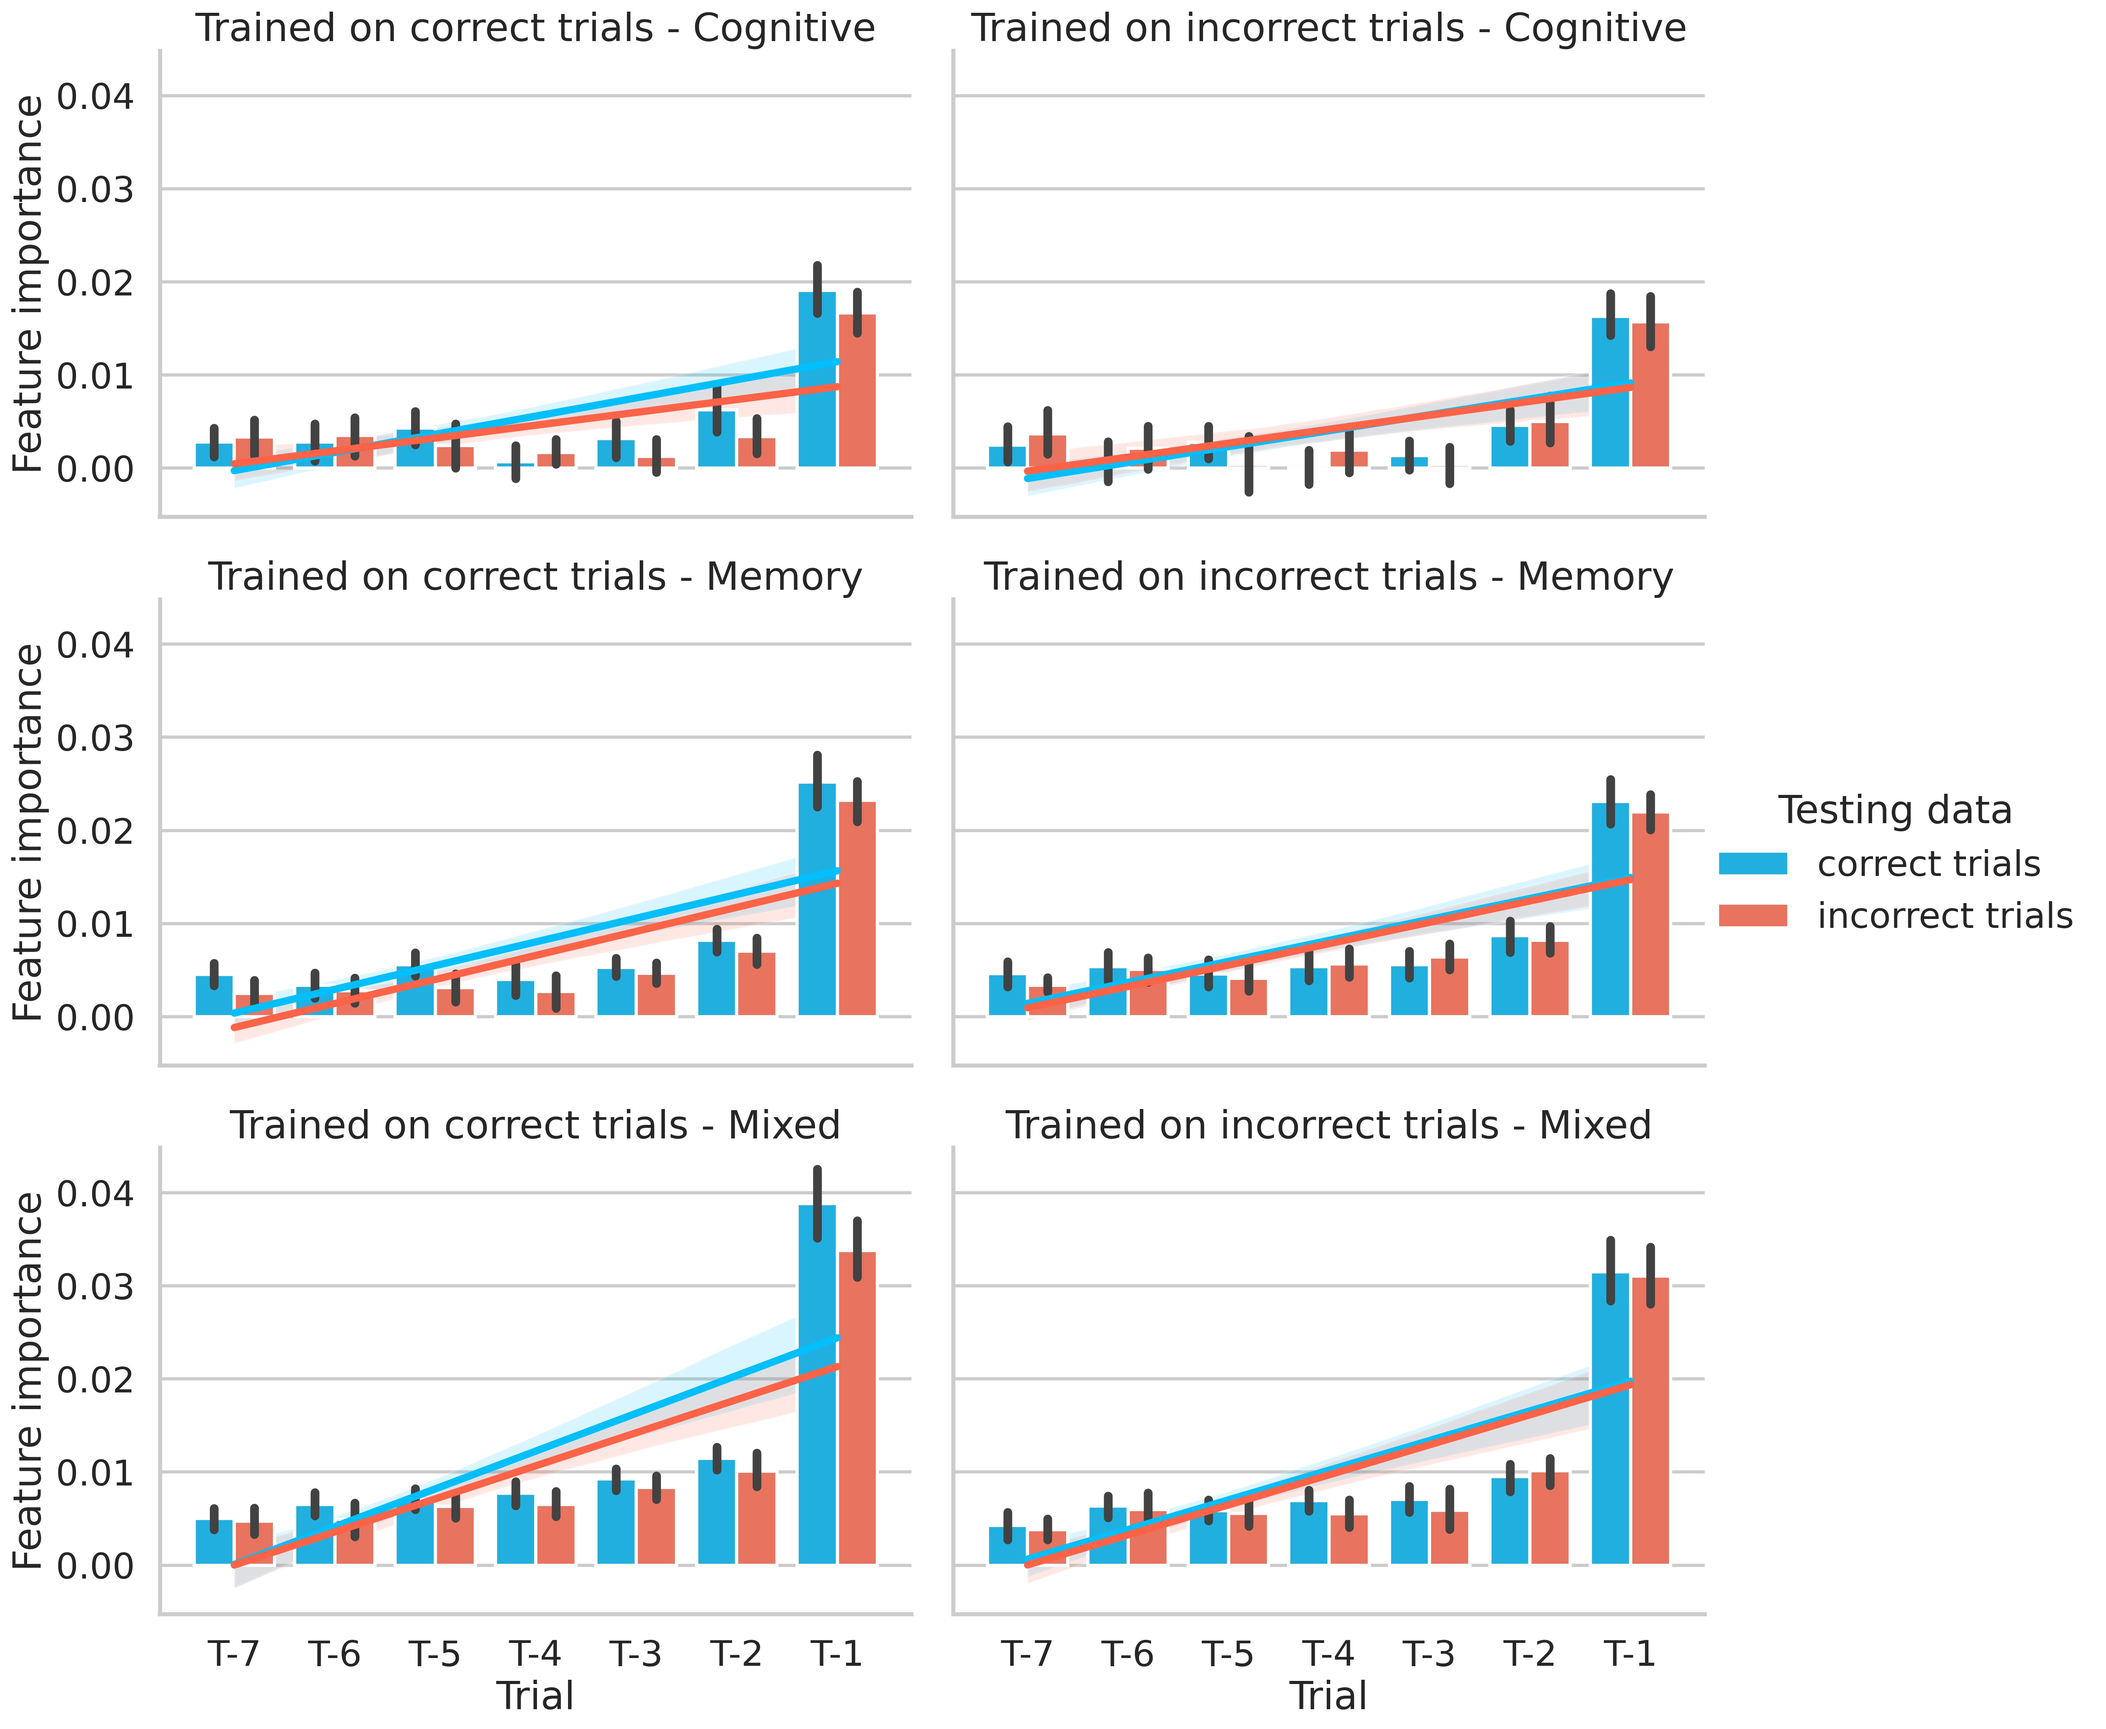
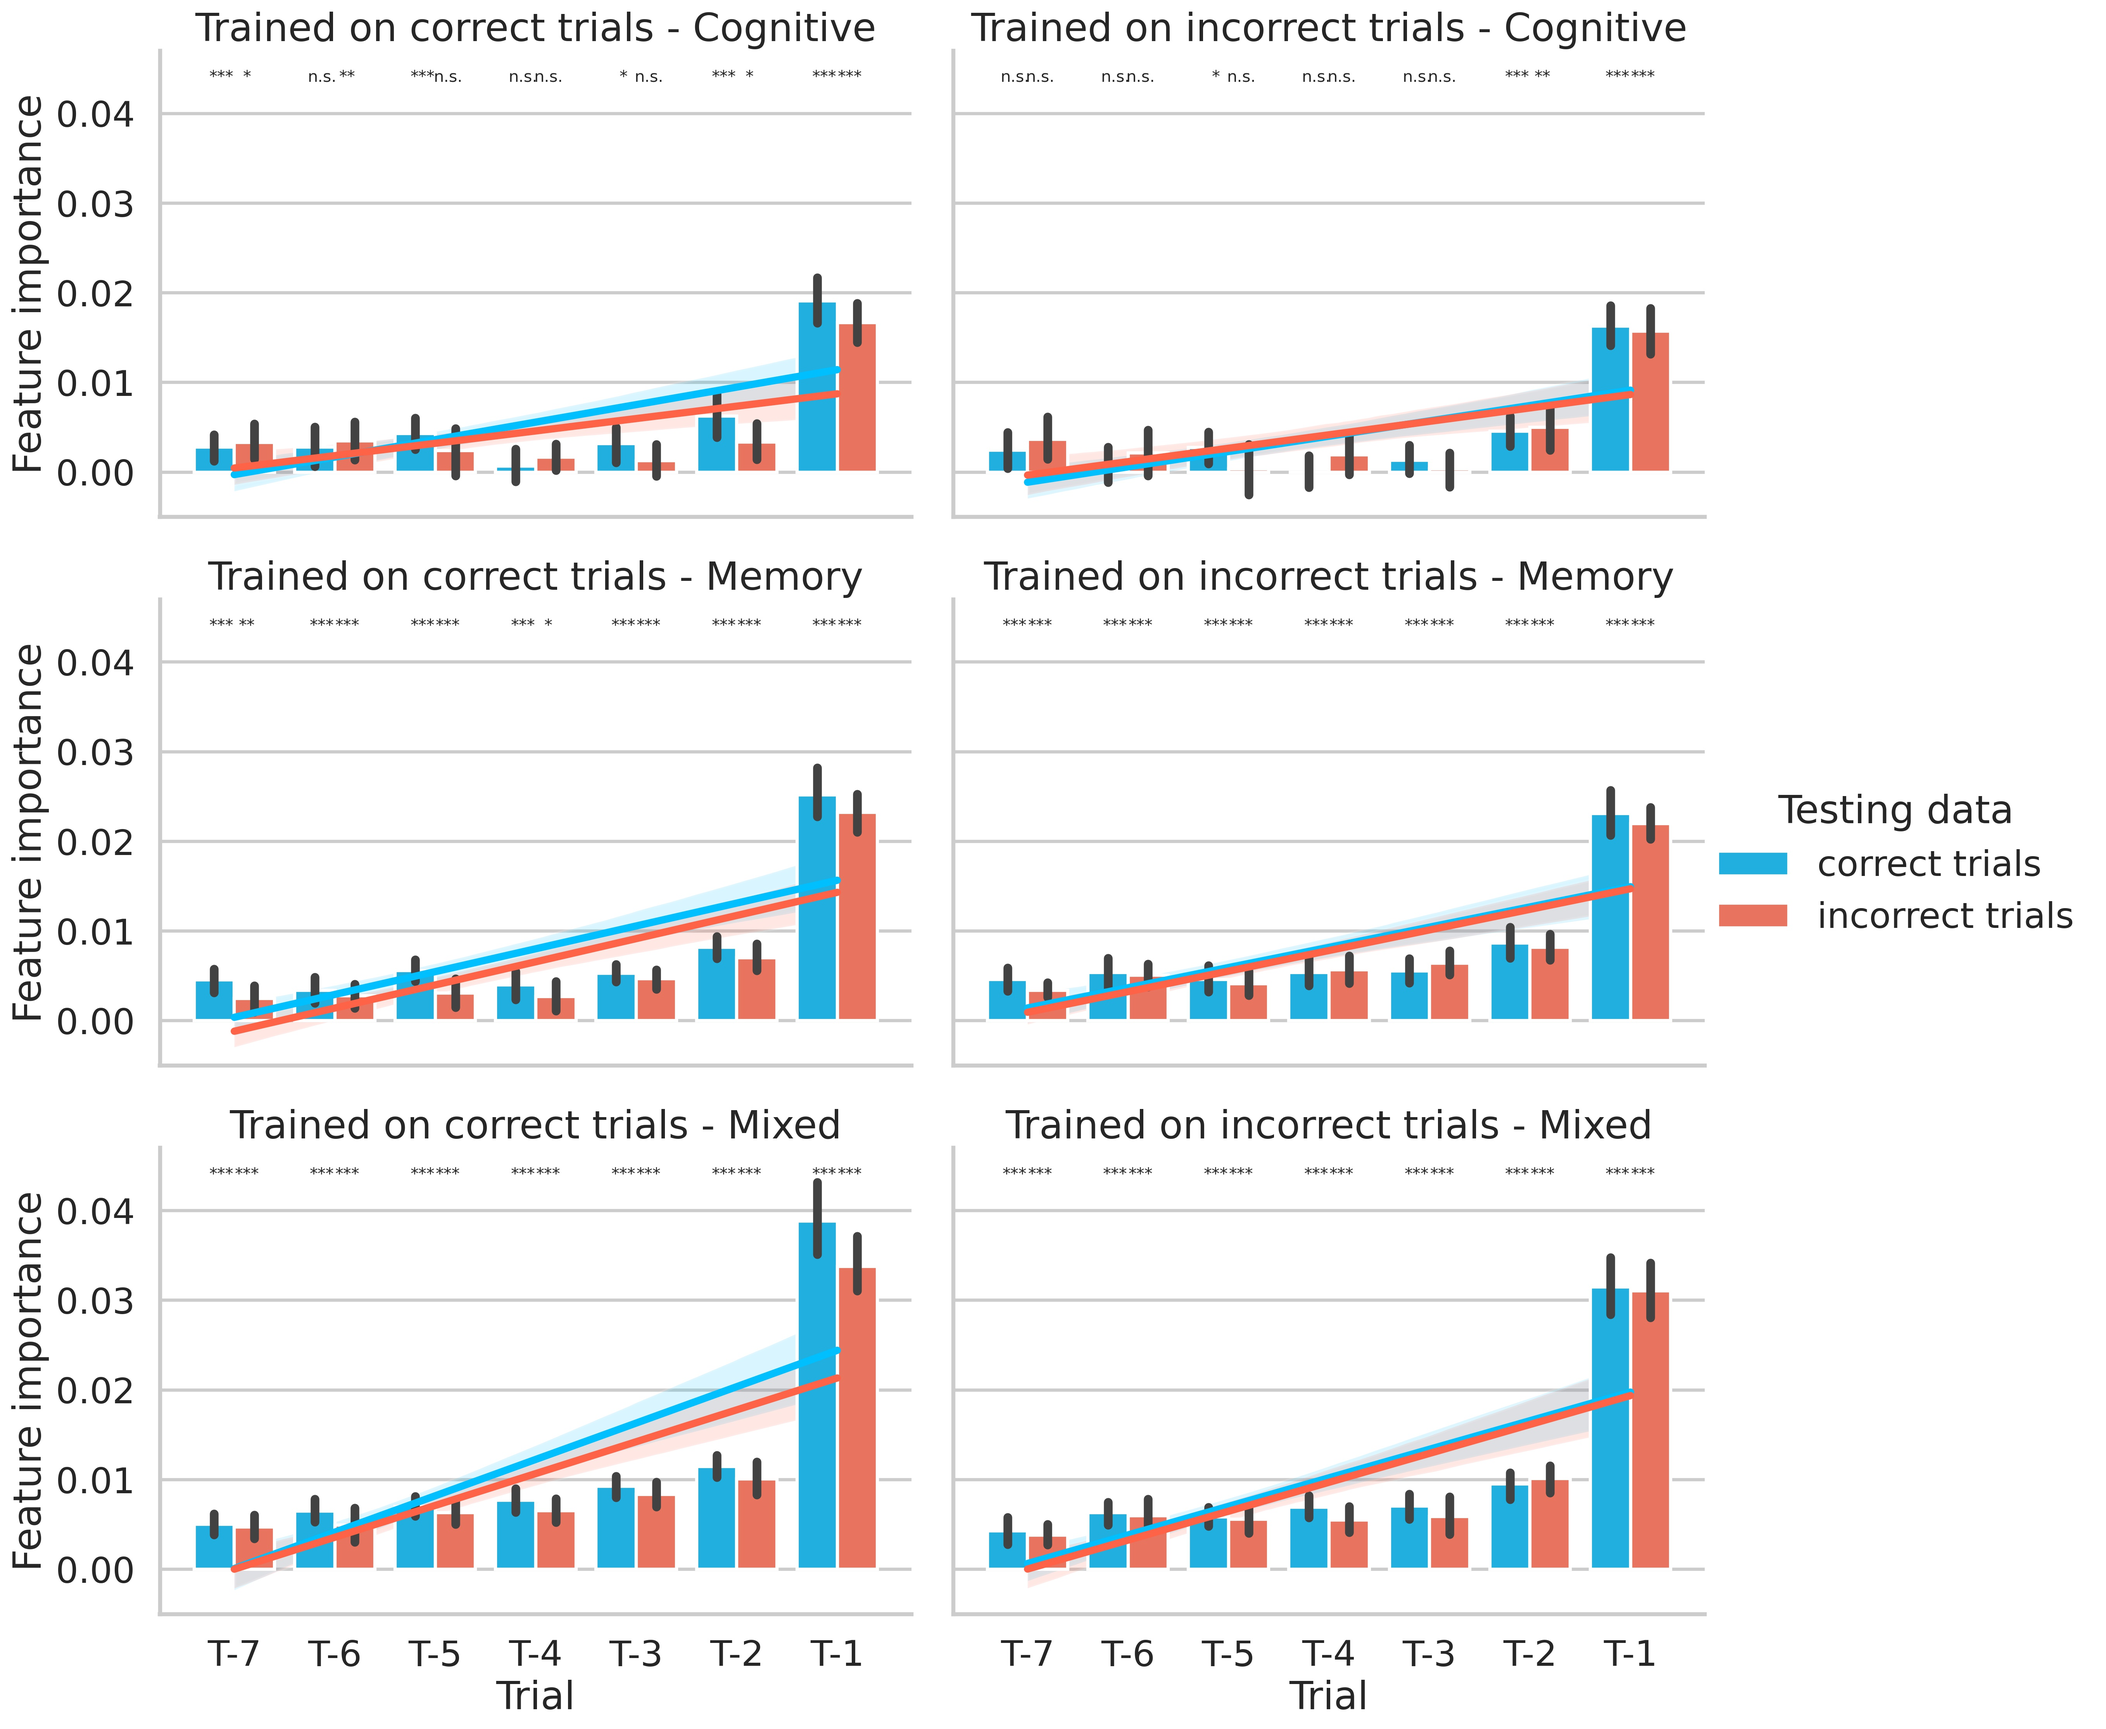
update

diff --git a/scripts/9.1.2.feature_importance_CD_confidence.py b/scripts/9.1.2.feature_importance_CD_confidence.py
@@ -145,6 +145,37 @@ slopes = pd.DataFrame(slopes)
 results.to_csv(os.path.join(stats_dir,'feature_importance.csv'),index = False)
 slopes.to_csv(os.path.join(stats_dir,'feature_importance_slopes.csv'),index = False)
 
+groupby = ['accuracy_train', 'accuracy_test','Time','source']
+permutations = {name:[] for name in groupby}
+permutations['ps_mean'] = []
+permutations['diff_mean'] = []
+for _factors,df_sub in df_plot.groupby(groupby):
+    x = df_sub['feature importance'].values
+    ps = utils.resample_ttest(x,
+                              baseline = 0,
+                              n_ps = 10,
+                              n_permutation = int(1e5),
+                              one_tail = True,
+                              n_jobs = -1,
+                              verbose = 1,)
+    for name,_name in zip(groupby,_factors):
+        permutations[name].append(_name)
+    permutations['ps_mean'].append(np.mean(ps))
+    permutations['diff_mean'].append(np.mean(x))
+permutations = pd.DataFrame(permutations)
+permutations = permutations.sort_values('ps_mean')
+temp = []
+for _,df_sub in permutations.groupby('source'):
+    df_sub = df_sub.sort_values('ps_mean')
+    ps = df_sub['ps_mean'].values
+    converter = utils.MCPConverter(pvals = ps)
+    d = converter.adjust_many()
+    df_sub['ps_corrected'] = d['bonferroni'].values
+    temp.append(df_sub)
+permutations = pd.concat(temp)
+permutations['stars'] = permutations['ps_corrected'].apply(utils.stars)
+permutations['Time'] = permutations['Time'].apply(lambda x:x.split(' ')[-1])
+
 g = sns.catplot(x = 'x',
                 y = 'feature importance',
                 row = 'source',
@@ -153,8 +184,6 @@ g = sns.catplot(x = 'x',
                 aspect = 1.5,
                 **xargs
                 )
-
-
 for ax,((target_data,acc_train),df_sub) in zip(g.axes.flatten(),df_plot.groupby(['source','accuracy_train'])):
     print(ax.title.get_text(),target_data,acc_train)
     for acc_test,color in zip(xargs['hue_order'],xargs['palette']):
@@ -166,10 +195,34 @@ for ax,((target_data,acc_train),df_sub) in zip(g.axes.flatten(),df_plot.groupby(
                          data = df_sub_sub,
                          ax = ax,
                          )
-        
+# add significance level
+for ax,((target_data,acc_train),df_sub) in zip(g.axes.flatten(),permutations.groupby(['source','accuracy_train'])):
+    print(ax.title.get_text(),target_data,acc_train)
+    # df_sub = permutations[permutations['accuracy_train'] == acc_train]
+    df_sub = df_sub.sort_values(['accuracy_train','accuracy_test'])
+    xtick_order = [plt.Text(0, 0, 'T-7'),
+                   plt.Text(1, 0, 'T-6'),
+                   plt.Text(2, 0, 'T-5'),
+                   plt.Text(3, 0, 'T-4'),
+                   plt.Text(4, 0, 'T-3'), 
+                   plt.Text(5, 0, 'T-2'),
+                   plt.Text(6, 0, 'T-1')]
+    
+    for ii,text_obj in enumerate(xtick_order):
+        position        = text_obj.get_position()
+        xtick_label     = text_obj.get_text()
+        df_sub_stats    = df_sub[df_sub['Time'] == xtick_label].sort_values(['accuracy_test'])
+        for (jj,temp_row),adjustment in zip(df_sub_stats.iterrows(),[-0.1275,0.125]):
+            print(temp_row['stars'])
+            ax.annotate(temp_row['stars'],
+                        xy          = (ii + adjustment,.044),
+                        ha          = 'center',va = 'center',
+                        fontsize    = 10)
 (g.set_titles('Trained on {col_name} - {row_name}')
- .set_axis_labels('Trial','Feature importance'))
+ .set_axis_labels('Trial','Feature importance')
+ .set(ylim = (-0.005,0.047)))
 g._legend.set_title("Testing data")
+
 g.savefig(os.path.join(figures_dir,
                         'feature_importance.jpg'),
                       dpi = 300,

diff --git a/scripts/9.1.1.feature_importance_LOO_confidence.py b/scripts/9.1.1.feature_importance_LOO_confidence.py
@@ -135,6 +135,32 @@ slopes = pd.DataFrame(slopes)
 results.to_csv(os.path.join(stats_dir,'feature_importance.csv'),index = False)
 slopes.to_csv(os.path.join(stats_dir,'feature_importance_slopes.csv'),index = False)
 
+groupby = ['accuracy_train', 'accuracy_test','Time']
+permutations = {name:[] for name in groupby}
+permutations['ps_mean'] = []
+permutations['diff_mean'] = []
+for _factors,df_sub in df_plot.groupby(groupby):
+    x = df_sub['feature importance'].values
+    ps = utils.resample_ttest(x,
+                              baseline = 0,
+                              n_ps = 10,
+                              n_permutation = int(1e5),
+                              one_tail = True,
+                              n_jobs = -1,
+                              verbose = 1,)
+    for name,_name in zip(groupby,_factors):
+        permutations[name].append(_name)
+    permutations['ps_mean'].append(np.mean(ps))
+    permutations['diff_mean'].append(np.mean(x))
+permutations = pd.DataFrame(permutations)
+permutations = permutations.sort_values('ps_mean')
+ps = permutations['ps_mean'].values
+converter = utils.MCPConverter(pvals = ps)
+d = converter.adjust_many()
+permutations['ps_corrected'] = d['bonferroni'].values
+permutations['stars'] = permutations['ps_corrected'].apply(utils.stars)
+permutations['Time'] = permutations['Time'].apply(lambda x:x.split(' ')[-1])
+
 g = sns.catplot(x = 'x',
                 y = 'feature importance',
                 data = df_plot,
@@ -158,17 +184,31 @@ for acc_train, ax in zip(xargs['hue_order'],g.axes.flatten()):
                          marker = None,
                          scatter = False,
                          ax = ax,)
-
+# add significance level
+for ax,acc_train in zip(g.axes.flatten(),xargs['col_order']):
+    df_sub = permutations[permutations['accuracy_train'] == acc_train]
+    df_sub = df_sub.sort_values(['accuracy_train','accuracy_test'])
+    xtick_order = list(ax.xaxis.get_majorticklabels())
+    
+    for ii,text_obj in enumerate(xtick_order):
+        position        = text_obj.get_position()
+        xtick_label     = text_obj.get_text()
+        df_sub_stats    = df_sub[df_sub['Time'] == xtick_label].sort_values(['accuracy_test'])
+        for (jj,temp_row),adjustment in zip(df_sub_stats.iterrows(),[-0.1275,0.125]):
+            print(temp_row['stars'])
+            ax.annotate(temp_row['stars'],
+                        xy          = (ii + adjustment,.081),
+                        ha          = 'center',va = 'center',
+                        fontsize    = 10)
 (g.set_titles('Trained on {col_name}')
- .set_axis_labels('Trial','Feature importance'))
+ .set_axis_labels('Trial','Feature importance')
+ .set(ylim = (-0.005,0.083)))
 g._legend.set_title("Testing data")
 
 g.savefig(os.path.join(figures_dir,
                         'feature_importance.jpg'),
           dpi = 300,
           bbox_inches = 'tight')
-
-
 
 
 
